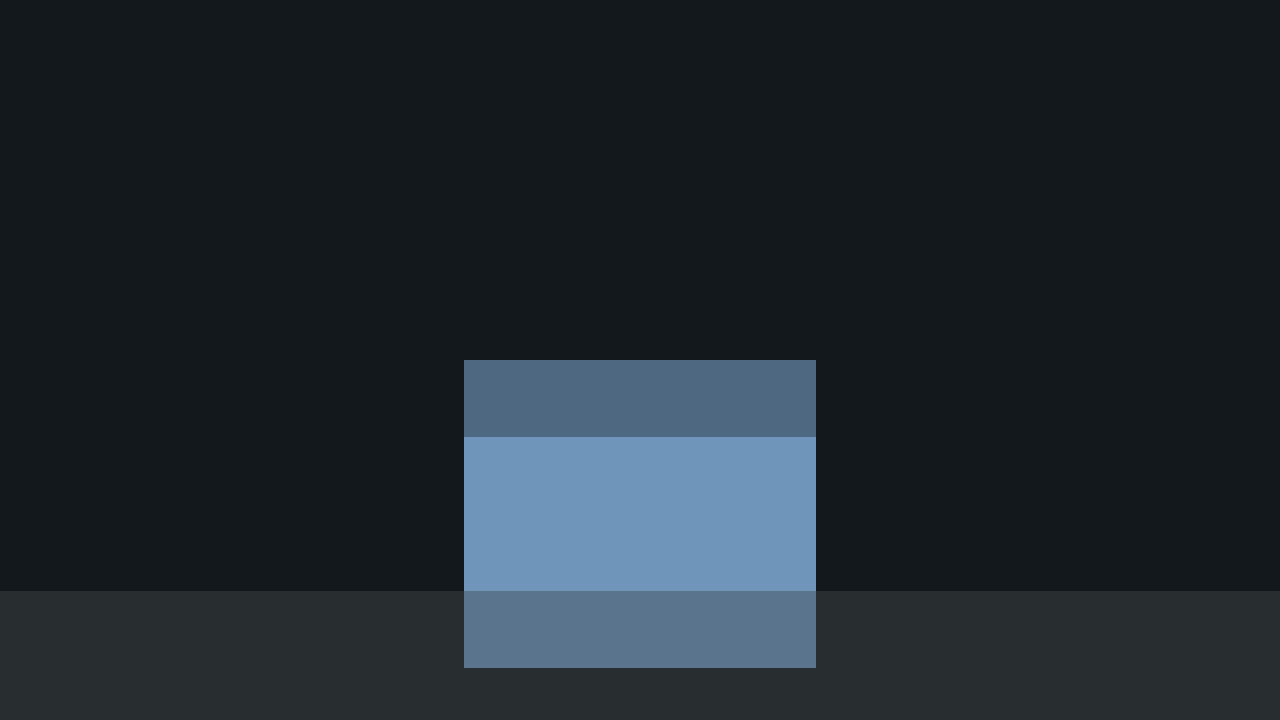
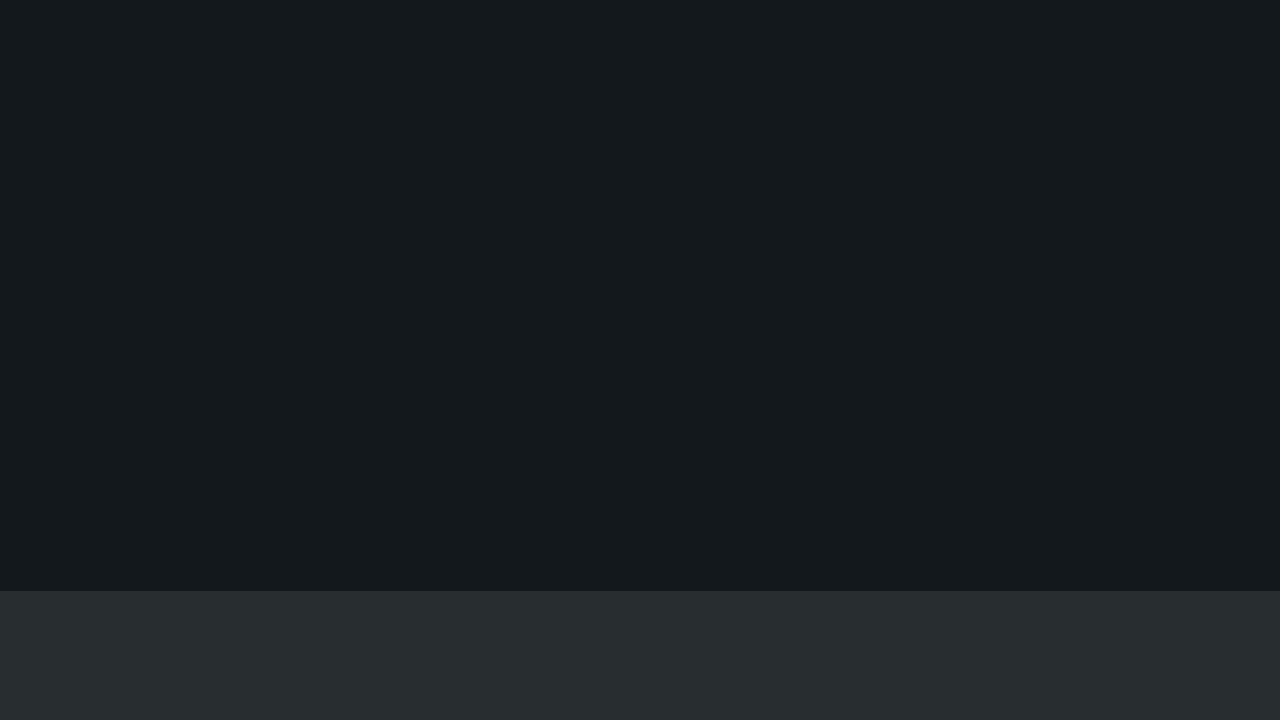
fix: 隐藏攻击调试矩形，按平台顶重算指引光停点并在教程结束淡出

Changed region(s): [[0.3438, 0.4889, 0.6562, 0.9472]]

diff --git a/doc/03-系统详细设计.md b/doc/03-系统详细设计.md
@@ -52,7 +52,7 @@ BOOT → MAIN_MENU → PLAYING → PAUSED → ENDING / GAME_OVER
 | 第一层剧情 | 入场延迟 0.6 秒 + 钟厅/祭坛/层门三个 Area2D 触发器，旗标去重，每段只播一次 |
 | 美术 | 全部代码生成：天光/暗角 shader、远景尖塔、中景尖拱、前景垂藤、轮廓光、雾团、飘尘；不依赖图片素材 |
 | 动作动画 | 状态驱动摆件，不动物理：待机呼吸、走步颠步、跳跃/下落姿态、横砍蓄力→挥出→收招、下劈持剑指地、受击缩身泛红、倒地侧倒淡出、复活撑起淡入；动作时长与 0.12s 攻击判定解耦；下落速度 >260 落地才扬尘，命中点炸冷白火花（仅表现，不加判定） |
-| 武器表现 | `has_weapon` 决定右臂 SwordPivot 是否可见：空手只画袖口与手，捡剑后亮一下再常驻；挥砍时残影弧线单独显隐 |
+| 武器表现 | `has_weapon` 决定右臂 SwordPivot 是否可见：空手只画袖口与手，捡剑后亮一下再常驻；挥砍时残影弧线单独显隐；攻击判定框只在逻辑层，原来的蓝色调试矩形已删掉 |
 | 怪物表现 | 史莱姆挤压/拉伸 + 随机眨眼 + 死亡压扁淡出（动画结束才掉肢体）+ 死亡绿色孢子；木桩稻草人受击绕脚底晃动 + 闪红，血尽重置不消失 |
 | 教学关美术 | `arena_art.gd` 运行时替换灰底：竖直冷光渐变、断柱破拱视差、顶面亮边/横缝/砖缝/青苔、锁链、四盏渐弱吊灯、两根台面断柱、碎石、贴地雾、飘尘、暗角；只改视觉，不动平台碰撞 |
 
